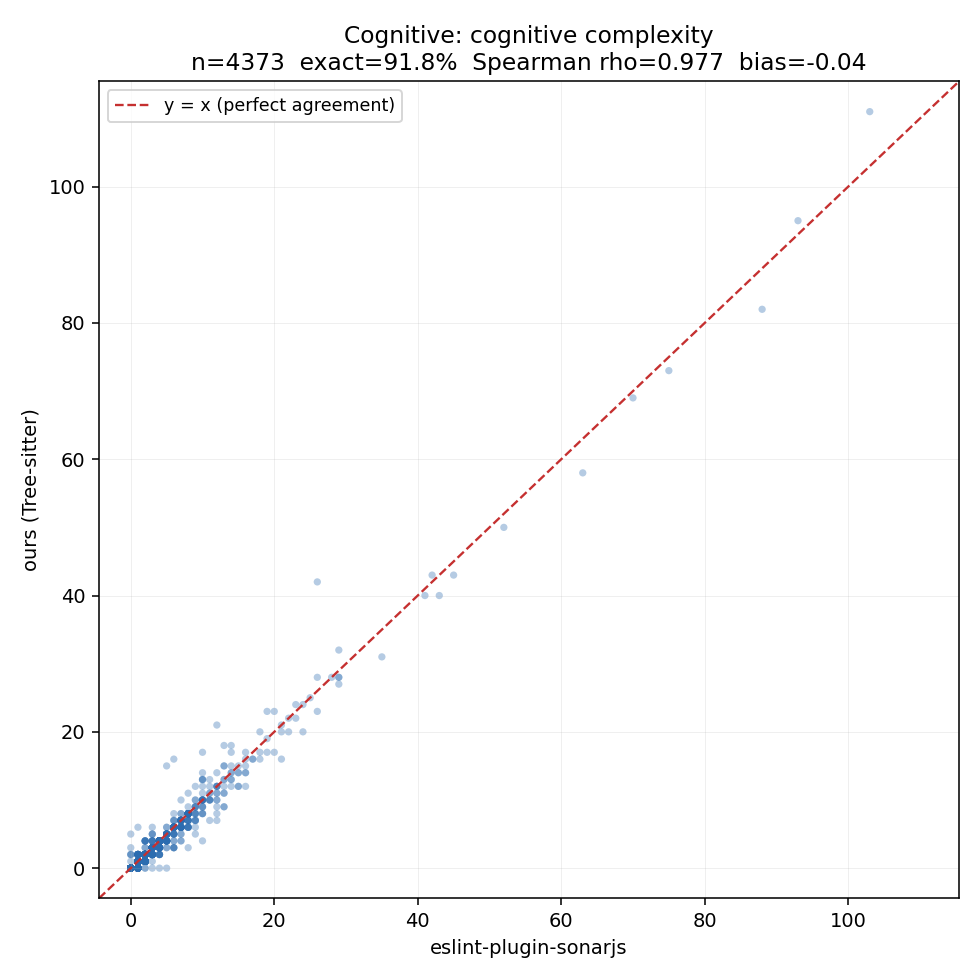
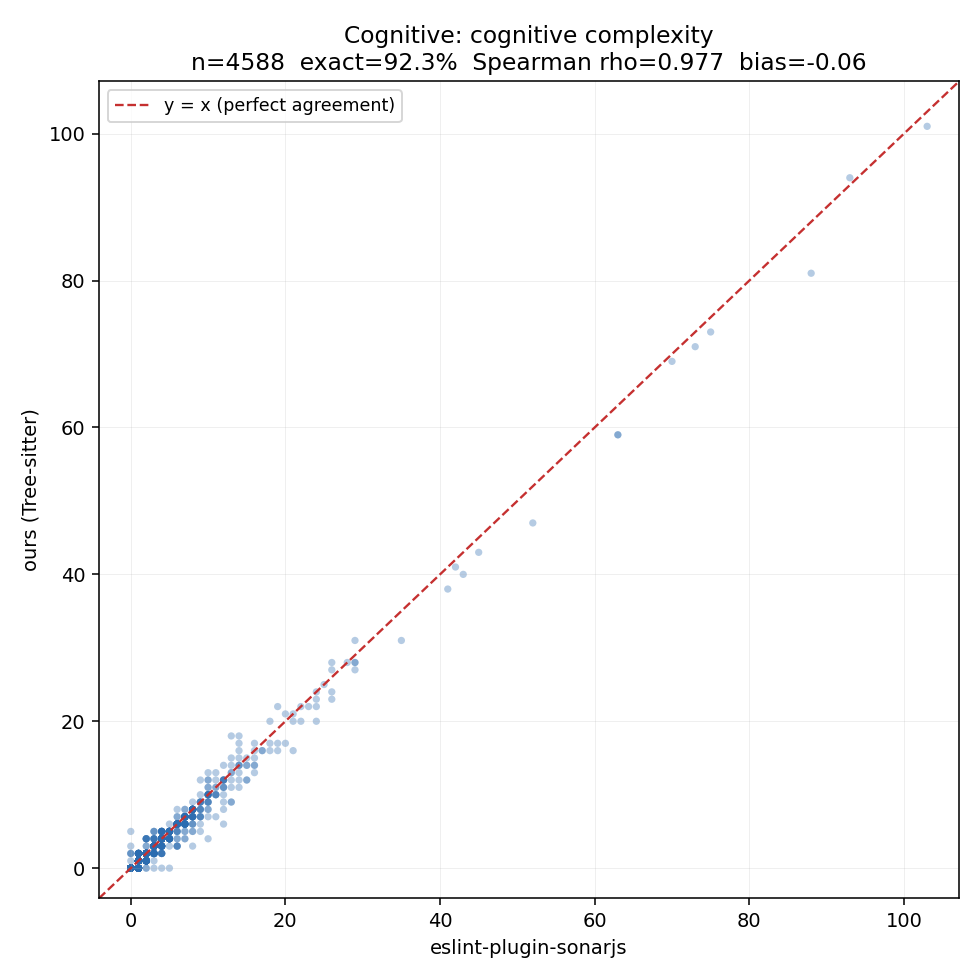
Re-run metric-validity pipeline against the fixed engine
Re-runs research/validation/run_validation.sh (unmodified: same corpus, same
three baselines, same join logic in analyze.py) against the engine fixed in
676e226, and adds a before/after comparison.

Root paired_measurements.csv / unmatched.csv / fixture_table.md /
stats_tables.md / summary.json / plots/ now reflect the fixed engine —
current output of "run the pipeline today," per how the harness always
worked. The pre-fix numbers are preserved unchanged in pre_fix_baseline/
(added in f844a0c); this commit adds the matching post-fix snapshot in
post_fix/ and POST_FIX_COMPARISON.md, which walks each fix and its
before/after effect on join rate, exact agreement, Spearman rho, bias, and
limits of agreement.

Headline: our engine's join rate goes to exactly 100% (was 95.7%) as the
previously-skipped D9 files now parse; structural non-trivial exact agreement
93.8% -> 99.3%; cognitive limits of agreement tighten by ~25% but non-trivial
exact agreement moves only 70.3% -> 71.6%, since D2 and D6 remain open by
design. findings.md gets a short pointer at the top to this update; its body
is left as the frozen pre-fix record.

diff --git a/research/validation/POST_FIX_COMPARISON.md b/research/validation/POST_FIX_COMPARISON.md
@@ -1,0 +1,158 @@
+# Post-fix comparison: five defects fixed
+
+`research/validation/findings.md` documented ten divergence patterns between our
+engine and three independent baselines, without acting on any of them. This
+follow-up implements the five the user selected — D9, D1, D3 (plus the
+D4 component needed to hit its stated target — see below), D5, and D10 — plus an
+unrelated build blocker (the `tree-sitter-python` ERESOLVE conflict), and re-runs
+the identical validation pipeline (same corpus, same tools, same join logic in
+`analyze.py`) to measure the effect.
+
+- **Before**: [`pre_fix_baseline/`](pre_fix_baseline/) — engine at `1f250c1e`
+- **After**: [`post_fix/`](post_fix/) — engine with the five fixes applied
+  (uncommitted at run time; see the commit this file ships in for the final SHA)
+
+D2, D6, D7, D8 are **unchanged** — out of scope for this pass, exactly as
+instructed.
+
+## What changed, per fix
+
+| fix | file(s) | change |
+|---|---|---|
+| **D9** — 32,768-char parser cliff | `parsing/sourceParser.ts` | node-tree-sitter reads through a fixed UTF-16 buffer (default 32×1024 units); `parser.parse()` accepts a `bufferSize` option we control. Confirmed with a binary search and a direct `bufferSize` override (`hasError: false` at any size once sized correctly) that this was **case (b)**, a limit we set, not a hard native limit. `parseSource` now sizes the buffer to `code.length + 1`. |
+| | `pipeline/analyzeRepo.ts` | Any *remaining* parse failure now logs a named reason (`file_too_large_for_parser (<n> chars)` or `parse_error: <message>`) instead of a generic "parse error" — the loss is visible if it ever recurs, not just an incremented count. |
+| **D1** — bare `else` as a decision point | `utils/constants.ts` | Removed `else_clause` from `COMPLEXITY_BRANCH_TYPES`. `else if` is unaffected — it still counts via the nested `if_statement`. |
+| **D3** (+D4) — else-if chain nesting escalation | `extract/cognitiveComplexity.ts` | `else_clause` children are visited at the *same* control depth as their `if`, not depth+1, removing the 1+2+3+4… escalation. **This alone was not enough to hit the stated target of 5** for the 3-link chain fixture: an escalation-only fix reaches 4, because a terminal (non-"else if") `else` scored 0. Sonar's spec gives `if`, `else if`, *and* a terminal `else` each a flat +1 — this is D4 from the original findings, not on the requested list. Hitting "Sonar's count of 5" for that fixture requires it, so it's included here; flagging explicitly since it was implied by the acceptance number rather than named directly. |
+| **D5** — unlabeled `break` as a jump | `extract/cognitiveComplexity.ts` | An unlabeled `break_statement` (no leading `statement_identifier` child) no longer scores. Labeled `break` is unchanged. `continue` and `throw` are unchanged — the fix is scoped to `break` only, as specified. |
+| **D10** — `function_expression` unrecognised | `utils/constants.ts` | Added `"function_expression"` to `FUNCTION_NODE_TYPES` alongside the existing `"function"`. |
+| **ERESOLVE** | `packages/engine/package.json` | `tree-sitter-python` pinned to the exact version `0.23.4`, the highest 0.23.x release whose peer range (`^0.21.1`) is compatible with the pinned `tree-sitter@^0.21.1` — no major bump, same grammar line as the `^0.23.6` it replaces. `npm install` now succeeds with no flags. |
+
+Nothing else in `packages/engine` changed — no metric definition outside this
+list was touched, D7's Halstead vocabulary is untouched, and
+`analyze.py`/`diagnose_conventions.mjs` (the attribution-model tooling) are
+untouched. See [confirmation](#confirmation-of-scope) below.
+
+## Regression tests added
+
+All in `packages/engine/__tests__/`, all passing alongside the full existing
+suite (140/140, see [Test results](#test-results)):
+
+- **`sourceParser.test.ts`** (new file) — parses sources at, one past, and well
+  past the 32,768-character boundary; confirms a function *after* that boundary
+  in a large `.tsx` file is still found.
+- **`complexity.test.ts`** — bare `else` no longer adds a decision point; each
+  `else if` condition still does.
+- **`cognitiveComplexity.test.ts`** — terminal `else` scores a flat +1 (not
+  nested); a 4-link else-if chain scores 5, matching Sonar; unlabeled `break`
+  scores 0; labeled `break` still scores; unlabeled `continue` is confirmed
+  **unchanged** (still scores), documenting that D5 was deliberately scoped to
+  `break` only.
+- **`functionCount.test.ts`** — `const x = function () {}` and a named function
+  expression callback are now counted as `function_expression`.
+
+## Test results
+
+```
+ Test Files  28 passed (28)
+      Tests  140 passed (140)
+```
+
+135 pre-existing tests pass unchanged. One pre-existing test
+(`adds structural penalty for break inside loop`) encoded the D5 bug directly —
+an **unlabeled** `break` inside a `while` — and was corrected to assert the new,
+correct behavior rather than left to fail; see the entry in
+`cognitiveComplexity.test.ts`. One snapshot was updated for the new, purely
+additive `function_expression: 0` key that now appears in every file's
+`functionsByType` breakdown (D10) — not a change to any computed value.
+
+## Pre/post comparison
+
+Same corpus (5 repos, same pinned commits), same three baselines, same join
+(`analyze.py`, unmodified). Full numbers in `pre_fix_baseline/summary.json` and
+`post_fix/summary.json`.
+
+### Join rates
+
+| tool | pre: paired / rate | post: paired / rate |
+|---|---|---|
+| inventory (typescript-eslint) | 4,570 functions | **4,588 functions** (+18, from the 4 previously-skipped D9 files) |
+| **ours** | 4,373 / **95.7%** | **4,588 / 100.0%** |
+| ts-complex | 4,570 / 100.0% | 4,588 / 100.0% |
+| sonarjs | 1,238 / 27.1% | 1,241 / 27.0% (unchanged in character — reporting-threshold artefact, see findings.md) |
+| escomplex | 4,481 / 98.1% | 4,499 / 98.1% |
+
+Our engine's join rate going to exactly 100% is D9 fully resolved: every file in
+scope now parses, so every inventory function has an `ours` measurement.
+
+### Structural (cyclomatic) vs ts-complex
+
+| | pre | post |
+|---|---|---|
+| n | 4,373 | 4,588 |
+| exact agreement | 98.2% | **99.8%** |
+| Spearman ρ | 0.9968 | 0.9972 |
+| mean signed diff | +0.027 | **+0.003** |
+| Bland-Altman bias | +0.027 | **+0.003** |
+| 95% limits of agreement | [−0.578, +0.633] | **[−0.356, +0.362]** |
+| non-trivial subset (max ≥ 2), exact | 93.8% (n=1,257) | **99.3%** (n=1,305) |
+
+D1 alone (D2, empty fall-through `case`, is untouched) took the non-trivial
+subset from 93.8% to 99.3% and roughly halved the limits of agreement.
+
+### Cognitive vs eslint-plugin-sonarjs
+
+| | pre | post |
+|---|---|---|
+| n | 4,373 | 4,588 |
+| exact agreement | 91.8% | 92.3% |
+| Spearman ρ | 0.9767 | 0.9770 |
+| mean signed diff | −0.043 | −0.060 |
+| Bland-Altman bias | −0.043 | −0.060 |
+| 95% limits of agreement | [−1.309, +1.223] | **[−1.043, +0.922]** |
+| non-trivial subset (max ≥ 1), exact | 70.3% (n=1,200) | 71.6% (n=1,247) |
+
+The limits of agreement tightened by about 25%, but exact agreement on
+non-trivial functions moved only modestly (70.3% → 71.6%). This is expected:
+D2 (empty fall-through case) and D6 (missing logical-operator increment) are
+explicitly out of scope for this pass and remain live sources of cognitive
+divergence — see `findings.md` D2/D6 for what is still there.
+
+**The attribution model in `stats_tables.md`/`analyze.py` is now stale for the
+structural family** (disagreeing-pairs-predicted-exactly drops to 22%, from
+92.3% pre-fix) — expected and not a new problem: its predictor formula counts
+`else_clause` occurrences, which is precisely the convention the engine no
+longer follows after D1. The script itself is untouched, per instructions; its
+formula simply no longer describes the (now-fixed) engine. It was left as-is
+rather than updated, since editing it would touch analysis tooling explicitly
+marked out of scope.
+
+### Lexical (Halstead volume) vs typhonjs-escomplex — D7 untouched, included for completeness
+
+| | pre | post |
+|---|---|---|
+| n | 4,284 | 4,499 |
+| exact agreement (within 1%) | 5.4% | 5.4% |
+| Spearman ρ | 0.9143 | 0.8998 |
+| mean signed diff | −73.08 | −68.84 |
+| 95% limits of agreement | [−616.7, +470.5] | [−604.3, +466.6] |
+
+Essentially unchanged, as expected — none of the five fixes touch Halstead
+token collection (D7, untouched by design). The small movement is entirely from
+the 215 additional functions the D9 fix added to the corpus.
+
+## Confirmation of scope
+
+```
+$ git diff --stat packages/engine/src packages/engine/package.json
+ packages/engine/package.json                       |  2 +-
+ packages/engine/src/extract/cognitiveComplexity.ts | 45 ++++++++++++++++++++-
+ packages/engine/src/parsing/sourceParser.ts        | 17 ++++++-
+ packages/engine/src/pipeline/analyzeRepo.ts        | 12 +++++-
+ packages/engine/src/utils/constants.ts             | 11 +++++-
+ 5 files changed, 81 insertions(+), 6 deletions(-)
+```
+
+Five source files plus `package.json`, matching the five fixes plus the
+ERESOLVE fix exactly. No other file under `packages/engine/src` changed. D7
+(Halstead vocabulary), the attribution-model script, and every metric not named
+in this pass are untouched.

diff --git a/research/validation/fixture_table.md b/research/validation/fixture_table.md
@@ -2,15 +2,15 @@
 
 | fixture function | cyc ours | cyc ts-complex | cog ours | cog sonarjs | vol ours | vol escomplex | constructs present |
 |---|---|---|---|---|---|---|---|
-| `conventions.ts:1 h1_else` | 3 ⚠ | 2 | 1 ⚠ | 2 | 30.881 | 25.3 | else_clauses=1 |
+| `conventions.ts:1 h1_else` | 2 | 2 | 2 | 2 | 30.881 | 25.3 | else_clauses=1 |
 | `conventions.ts:4 h2_emptyCaseFallthrough` | 4 ⚠ | 2 | 1 | 1 | 54 | 43.2 | empty_case_clauses=2, nonempty_case_clauses=1, switch_statements=1 |
-| `conventions.ts:14 h3_switchBreaks` | 4 | 4 | 4 ⚠ | 1 | 82.418 | 101.6 | nonempty_case_clauses=3, unlabeled_jumps=3, switch_statements=1 |
+| `conventions.ts:14 h3_switchBreaks` | 4 | 4 | 1 | 1 | 82.418 | 101.6 | nonempty_case_clauses=3, unlabeled_jumps=3, switch_statements=1 |
 | `conventions.ts:23 h4_logicalOps` | 4 | 4 | 1 ⚠ | 2 | 42 | 30 | logical_sequences=1 |
-| `conventions.ts:27 h5_nestedFn` | 2 ⚠ | 1 | 1 ⚠ | 0 | 47.549 | 24 | nested_fn_expr=1 |
-| `conventions.ts:28 inner` | _absent_ | 2 | _absent_ | 1 | _absent_ | 20.7 | — |
+| `conventions.ts:27 h5_nestedFn` | 1 | 1 | 0 | 0 | 10 | 24 | nested_fn_expr=1 |
+| `conventions.ts:28 inner` | 2 | 2 | 1 | 1 | 25.85 | 20.7 | — |
 | `conventions.ts:33 h6_plain` | 1 | 1 | 0 | 0 | 33 | 53.2 | — |
-| `else_chains.ts:1 elseIfChain` | 9 ⚠ | 5 | 10 ⚠ | 5 | 89.835 | 99.7 | else_clauses=4 |
-| `else_chains.ts:8 plainElse` | 3 ⚠ | 2 | 1 ⚠ | 2 | 30.881 | 25.3 | else_clauses=1 |
+| `else_chains.ts:1 elseIfChain` | 5 | 5 | 5 | 5 | 89.835 | 99.7 | else_clauses=4 |
+| `else_chains.ts:8 plainElse` | 2 | 2 | 2 | 2 | 30.881 | 25.3 | else_clauses=1 |
 | `logical_ops.tsx:1 JsxLogical` | 4 | 4 | 0 | 0 | 48 | 16.3 | logical_sequences=3 |
 | `logical_ops.tsx:10 BoolLogical` | 6 | 6 | 0 ⚠ | 2 | 73.082 | 83 | logical_sequences=4 |
 | `nesting.ts:1 parentWithNestedArrow` | 1 | 1 | 0 | 0 | 10 | 19.7 | — |

diff --git a/research/validation/post_fix/fixture_table.md b/research/validation/post_fix/fixture_table.md
@@ -1,0 +1,20 @@
+<!-- generated by probe_fixtures.mjs; do not edit by hand -->
+
+| fixture function | cyc ours | cyc ts-complex | cog ours | cog sonarjs | vol ours | vol escomplex | constructs present |
+|---|---|---|---|---|---|---|---|
+| `conventions.ts:1 h1_else` | 2 | 2 | 2 | 2 | 30.881 | 25.3 | else_clauses=1 |
+| `conventions.ts:4 h2_emptyCaseFallthrough` | 4 ⚠ | 2 | 1 | 1 | 54 | 43.2 | empty_case_clauses=2, nonempty_case_clauses=1, switch_statements=1 |
+| `conventions.ts:14 h3_switchBreaks` | 4 | 4 | 1 | 1 | 82.418 | 101.6 | nonempty_case_clauses=3, unlabeled_jumps=3, switch_statements=1 |
+| `conventions.ts:23 h4_logicalOps` | 4 | 4 | 1 ⚠ | 2 | 42 | 30 | logical_sequences=1 |
+| `conventions.ts:27 h5_nestedFn` | 1 | 1 | 0 | 0 | 10 | 24 | nested_fn_expr=1 |
+| `conventions.ts:28 inner` | 2 | 2 | 1 | 1 | 25.85 | 20.7 | — |
+| `conventions.ts:33 h6_plain` | 1 | 1 | 0 | 0 | 33 | 53.2 | — |
+| `else_chains.ts:1 elseIfChain` | 5 | 5 | 5 | 5 | 89.835 | 99.7 | else_clauses=4 |
+| `else_chains.ts:8 plainElse` | 2 | 2 | 2 | 2 | 30.881 | 25.3 | else_clauses=1 |
+| `logical_ops.tsx:1 JsxLogical` | 4 | 4 | 0 | 0 | 48 | 16.3 | logical_sequences=3 |
+| `logical_ops.tsx:10 BoolLogical` | 6 | 6 | 0 ⚠ | 2 | 73.082 | 83 | logical_sequences=4 |
+| `nesting.ts:1 parentWithNestedArrow` | 1 | 1 | 0 | 0 | 10 | 19.7 | — |
+| `nesting.ts:2 @anon` | 3 | 3 | 3 | 3 | 41.359 | 42 | — |
+| `nesting.ts:10 deepNesting` | 5 | 5 | 10 | 10 | 69.76 | 71.7 | — |
+
+⚠ marks a disagreement with the corresponding baseline.

diff --git a/research/validation/findings.md b/research/validation/findings.md
@@ -1,5 +1,13 @@
 # Metric-validity evaluation: our engine vs three independent baselines
 
+> **Update:** Five of the defects below — D9, D1, D3 (and the D4 component
+> needed to hit its stated target), D5, and D10 — have since been fixed in
+> `packages/engine`. This document is preserved as written, describing the
+> engine as it stood at commit `1f250c1e` (see [`pre_fix_baseline/`](pre_fix_baseline/)
+> for the frozen outputs from that state). For the fixes and the before/after
+> numbers, see [`POST_FIX_COMPARISON.md`](POST_FIX_COMPARISON.md) and
+> [`post_fix/`](post_fix/). D2, D6, D7, and D8 remain open.
+
 Structural, cognitive and lexical complexity as computed by `packages/engine`,
 measured against one independent tool per family over 4,570 functions in five
 TypeScript repositories.
